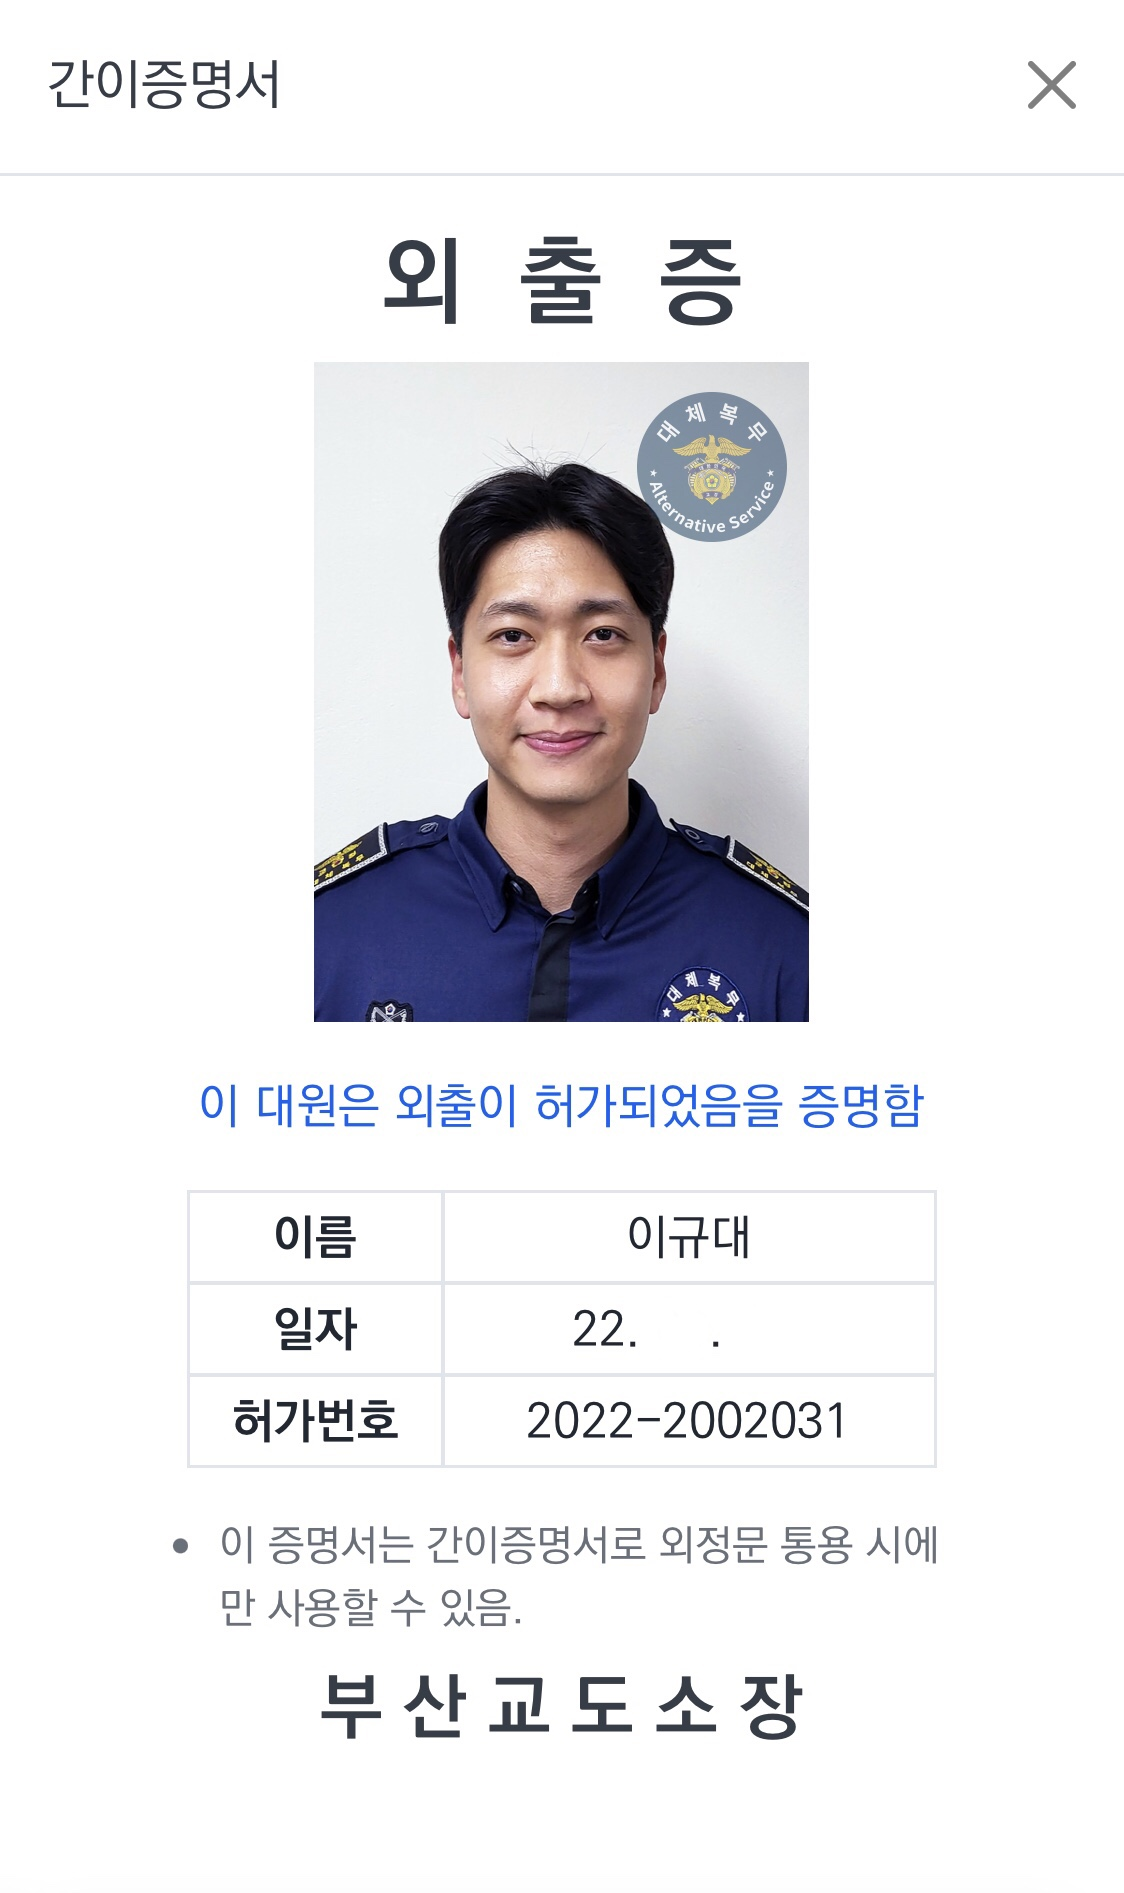
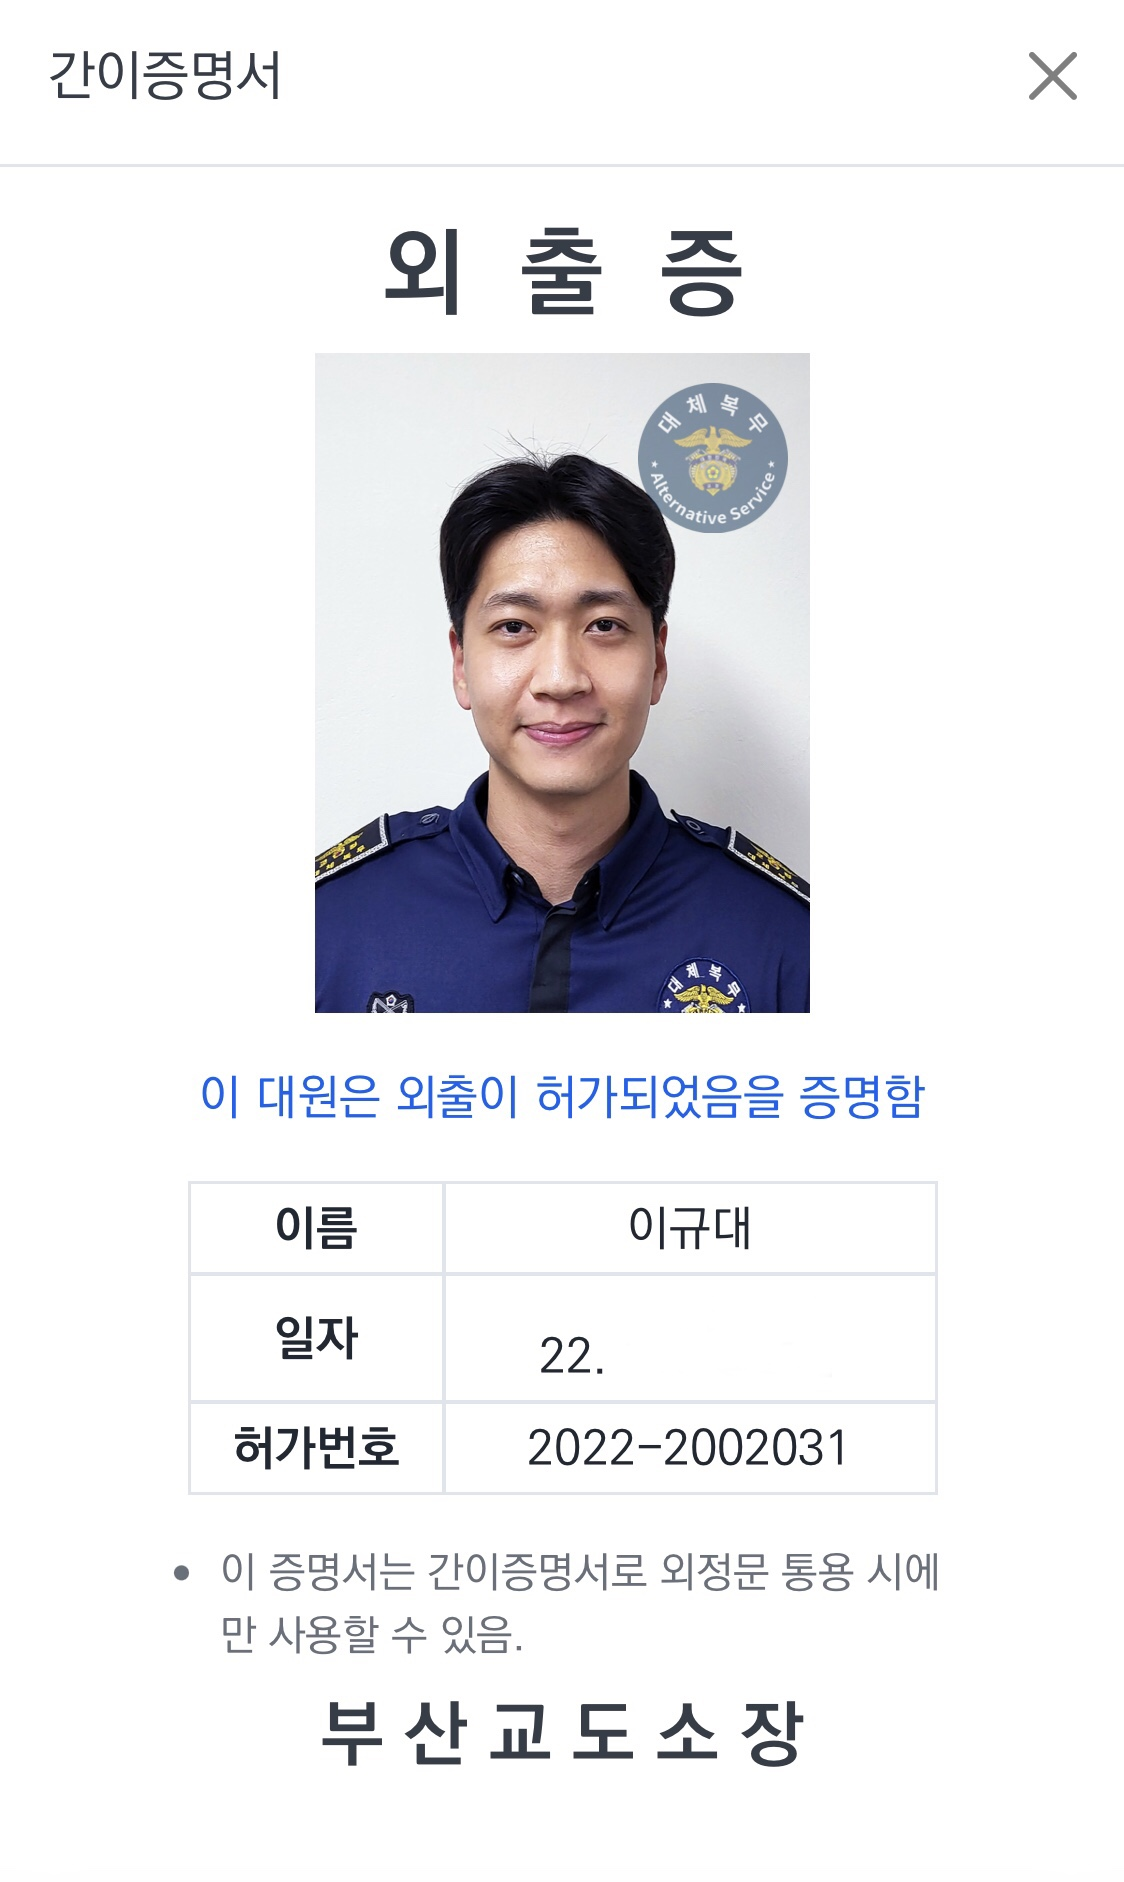
Modify units

diff --git a/index.html b/index.html
@@ -6,14 +6,18 @@
     <meta name="viewport" content="width=device-width, initial-scale=1.0" />
     <title>대체포털</title>
     <style>
+      body {
+        margin: 0;
+      }
+
       img {
         width: 100%;
       }
 
       .button {
         background-color: transparent;
-        width: 50px;
-        height: 50px;
+        width: 12vw;
+        height: 12vw;
         position: absolute;
         border-radius: 50%;
       }
@@ -23,18 +27,16 @@
       }
 
       .certi-btn {
-        top: 13px;
-        right: 125px;
+        top: 1.3vw;
+        left: 58.2vw;
       }
 
       .cancel-btn {
-        top: 13px;
-        right: 9px;
+        top: 1.3vw;
+        right: 0.5vw;
       }
 
       .box {
-        width: 30px;
-        height: 30px;
         position: absolute;
         text-align: center;
         font-family: 'KoPub Dotum', Metropolis, -apple-system,
@@ -44,16 +46,17 @@
       }
 
       .month-box {
-        top: 467px;
-        left: 237px;
-        font-size: 19px;
+        top: 117.4vw;
+        left: 55.5vw;
+        font-size: 5vw;
         font-weight: 250;
       }
 
       .day-box {
-        top: 463px;
-        left: 272px;
-        font-size: 24px;
+        top: 114vw;
+        left: 62.5vw;
+        font-size: 9vw;
+        font-weight: 500;
       }
     </style>
   </head>
@@ -77,8 +80,8 @@
 
       certiBtn.addEventListener('click', () => {
         img.src = 'img/certification.jpg';
-        monthBox.innerText = month;
-        dayBox.innerText = day;
+        monthBox.innerText = `${month < 10 ? '0' + month : month}` + '.';
+        dayBox.innerText = `${day < 10 ? '0' + day : day}` + '.';
       });
 
       cancelBtn.addEventListener('click', () => {
